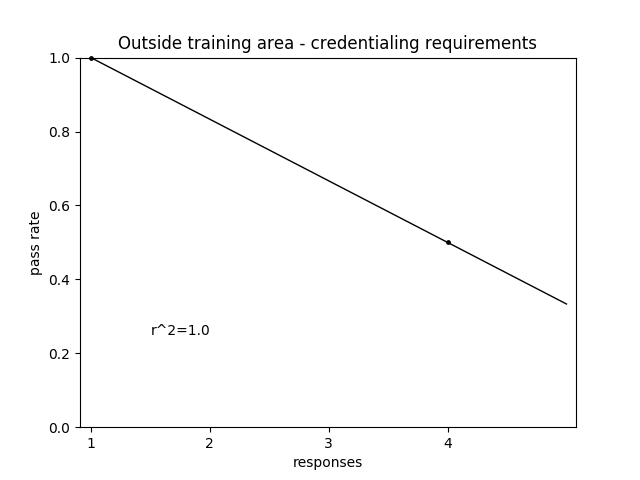
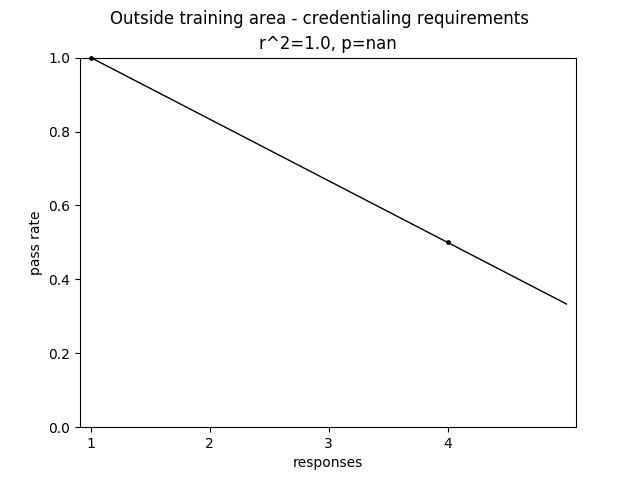
added Spearman correlation to question 4

Changed region(s): [[0.1562, 0.0312, 0.8438, 0.125], [0.2812, 0.6875, 0.3125, 0.7188], [0.25, 0.6562, 0.2812, 0.6875]]

diff --git a/question_4.py b/question_4.py
@@ -58,6 +58,10 @@ def question4(df, q4_lst, bx_lst):
 		# Get rid of NAs
 		sample.dropna(inplace=True)
 
+		# Spearman correlation calculates p-value and appends to list
+		p = calculate_spearman(df[bx], df['pass rate'])
+		p_values.append(p)
+
 		# Linear regression
 		reg = LinearRegression()
 		prediction_space = np.linspace(1, 5).reshape(-1,1)
@@ -66,15 +70,18 @@ def question4(df, q4_lst, bx_lst):
 		reg.fit(X, y)
 		y_pred = reg.predict(prediction_space)
 
+		# Calculate r^2 for the regression
 		r2 = reg.score(X, y)
 
+		# Make a scatter plot and line of best fit
 		_ = plt.plot(prediction_space, y_pred, color='black', linewidth=1)
 		_ = plt.scatter(sample[bx], sample['pass rate'], c='k', s=6, clip_on=False)
 		#_ = plt.grid(b=None, axis='both')
-		_ = plt.title(bx)
+		_ = plt.suptitle(bx)
+		_ = plt.title('r^2='+str(r2)+', p='+str(p))
 		_ = plt.xlabel('responses')
 		_ = plt.ylabel('pass rate')
-		_ = plt.annotate('r^2='+str(r2), xy=(1.5, 0.25))
+		#_ = plt.annotate('r^2='+str(r2), xy=(1.5, 0.25))
 		_ = plt.xticks(np.arange(1, 5, 1))
 		_ = plt.ylim(0, 1)
 		#_ = plt.tight_layout()
@@ -83,12 +90,20 @@ def question4(df, q4_lst, bx_lst):
 		_ = plt.close()
 
 
-	#print('p_values:')
-	#print(p_values)
+	print('p_values:')
+	print(p_values)
 	
 	os.chdir('..')
 
 	return
+
+
+def calculate_spearman(x, y):
+	''' Calculates p-value from Spearman correlation'''
+
+	rho, pval = stats.spearmanr(x, y)
+
+	return pval
 
 
 if __name__ == '__main__':
